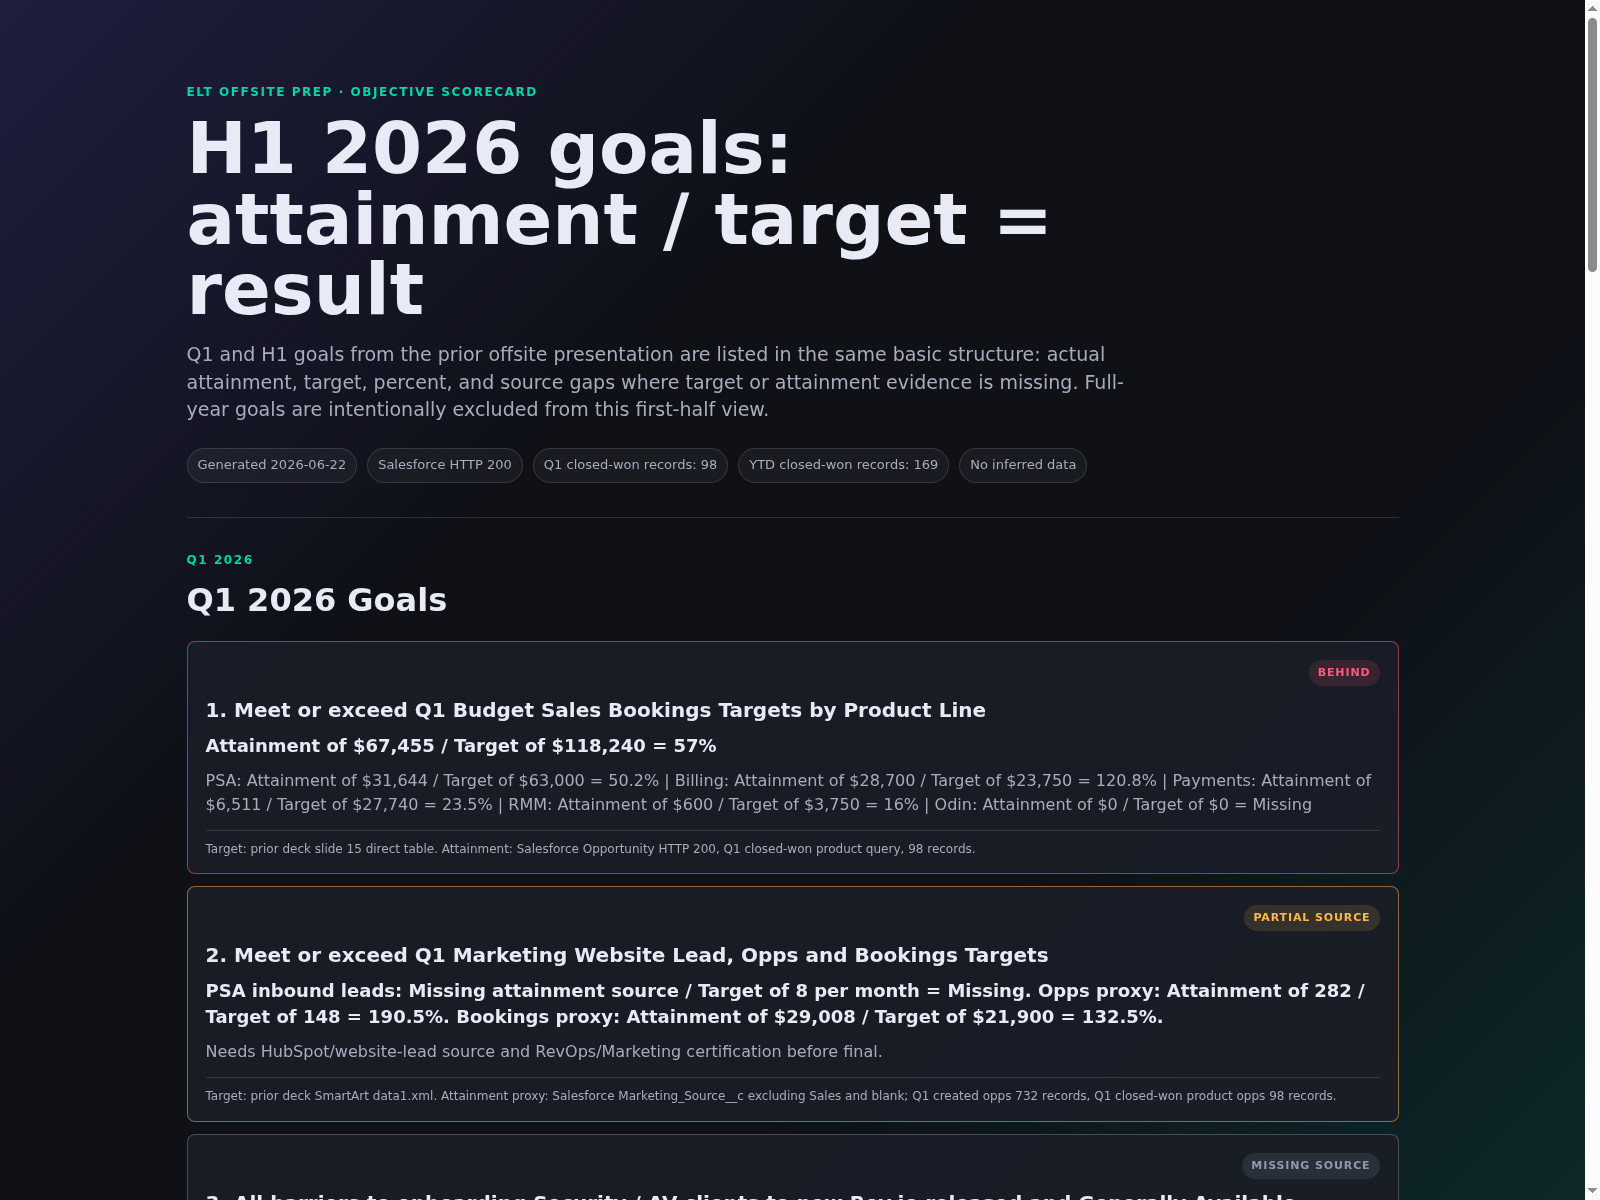
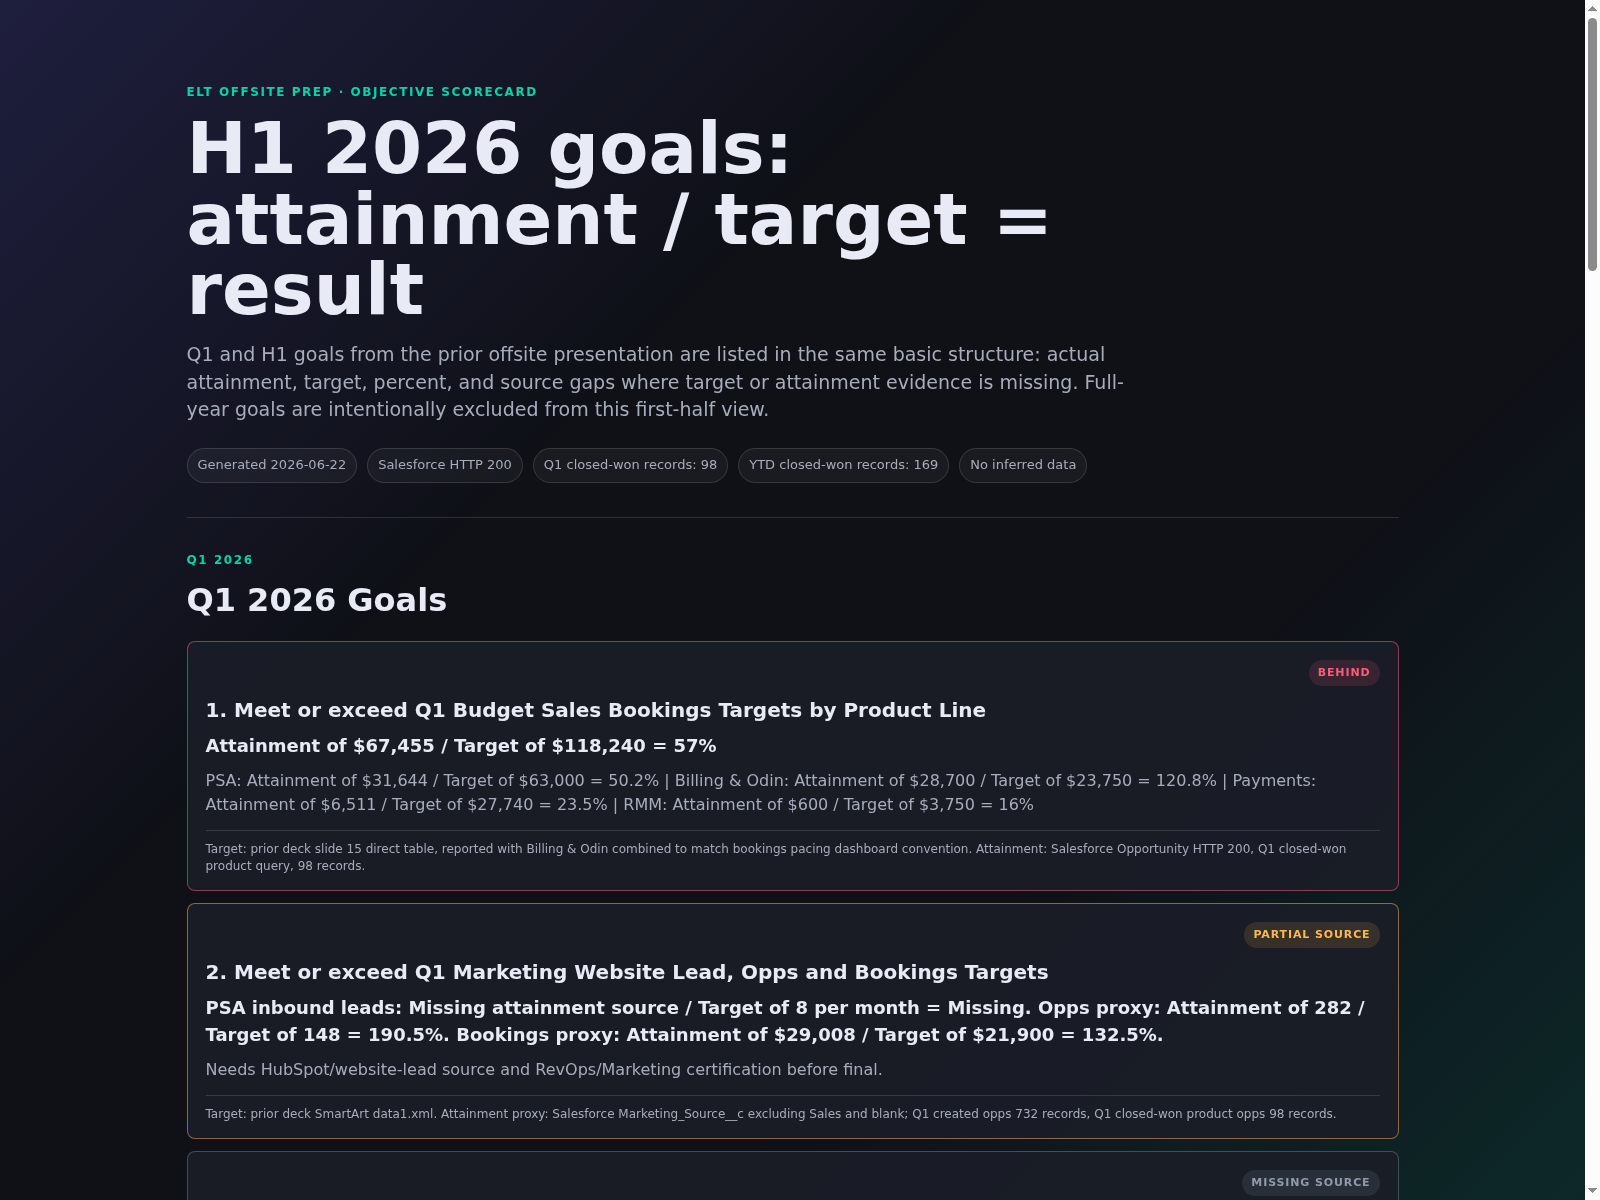
Combine Billing and Odin in ELT goals scorecard

diff --git a/elt-goals-h1/index.html b/elt-goals-h1/index.html
@@ -27,8 +27,8 @@
     <div class="top"><span class="badge bad">Behind</span></div>
     <h3>1. Meet or exceed Q1 Budget Sales Bookings Targets by Product Line</h3>
     <p class="result">Attainment of $67,455 / Target of $118,240 = 57%</p>
-    <p class="note">PSA: Attainment of $31,644 / Target of $63,000 = 50.2% | Billing: Attainment of $28,700 / Target of $23,750 = 120.8% | Payments: Attainment of $6,511 / Target of $27,740 = 23.5% | RMM: Attainment of $600 / Target of $3,750 = 16% | Odin: Attainment of $0 / Target of $0 = Missing</p>
-    <div class="source">Target: prior deck slide 15 direct table. Attainment: Salesforce Opportunity HTTP 200, Q1 closed-won product query, 98 records.</div>
+    <p class="note">PSA: Attainment of $31,644 / Target of $63,000 = 50.2% | Billing &amp; Odin: Attainment of $28,700 / Target of $23,750 = 120.8% | Payments: Attainment of $6,511 / Target of $27,740 = 23.5% | RMM: Attainment of $600 / Target of $3,750 = 16%</p>
+    <div class="source">Target: prior deck slide 15 direct table, reported with Billing &amp; Odin combined to match bookings pacing dashboard convention. Attainment: Salesforce Opportunity HTTP 200, Q1 closed-won product query, 98 records.</div>
   </article><article class="goal partial">
     <div class="top"><span class="badge partial">Partial source</span></div>
     <h3>2. Meet or exceed Q1 Marketing Website Lead, Opps and Bookings Targets</h3>
@@ -93,8 +93,8 @@
     <div class="top"><span class="badge bad">Behind</span></div>
     <h3>1. Meet or exceed H1 Budget Sales Bookings Targets by Product Line</h3>
     <p class="result">Attainment of $105,901 / Target of $309,154 = 34.3%</p>
-    <p class="note">PSA: Attainment of $55,498 / Target of $165,000 = 33.6% | Billing: Attainment of $39,310 / Target of $59,392 = 66.2% | Payments: Attainment of $10,493 / Target of $59,480 = 17.6% | RMM: Attainment of $600 / Target of $19,050 = 3.1% | Odin: Attainment of $0 / Target of $6,232 = 0%</p>
-    <div class="source">Target: prior deck slide 15 direct table. Attainment: Salesforce Opportunity HTTP 200, H1/YTD closed-won product query, 169 records through 2026-06-22.</div>
+    <p class="note">PSA: Attainment of $55,498 / Target of $165,000 = 33.6% | Billing &amp; Odin: Attainment of $39,310 / Target of $65,624 = 59.9% | Payments: Attainment of $10,493 / Target of $59,480 = 17.6% | RMM: Attainment of $600 / Target of $19,050 = 3.1%</p>
+    <div class="source">Target: prior deck slide 15 direct table, reported with Billing &amp; Odin combined to match bookings pacing dashboard convention. Attainment: Salesforce Opportunity HTTP 200, H1/YTD closed-won product query, 169 records through 2026-06-22.</div>
   </article><article class="goal partial">
     <div class="top"><span class="badge partial">Partial source</span></div>
     <h3>2. Meet or exceed H1 Marketing Website Leads, Opps and Bookings Targets</h3>

diff --git a/elt-goals.html b/elt-goals.html
@@ -27,8 +27,8 @@
     <div class="top"><span class="badge bad">Behind</span></div>
     <h3>1. Meet or exceed Q1 Budget Sales Bookings Targets by Product Line</h3>
     <p class="result">Attainment of $67,455 / Target of $118,240 = 57%</p>
-    <p class="note">PSA: Attainment of $31,644 / Target of $63,000 = 50.2% | Billing: Attainment of $28,700 / Target of $23,750 = 120.8% | Payments: Attainment of $6,511 / Target of $27,740 = 23.5% | RMM: Attainment of $600 / Target of $3,750 = 16% | Odin: Attainment of $0 / Target of $0 = Missing</p>
-    <div class="source">Target: prior deck slide 15 direct table. Attainment: Salesforce Opportunity HTTP 200, Q1 closed-won product query, 98 records.</div>
+    <p class="note">PSA: Attainment of $31,644 / Target of $63,000 = 50.2% | Billing &amp; Odin: Attainment of $28,700 / Target of $23,750 = 120.8% | Payments: Attainment of $6,511 / Target of $27,740 = 23.5% | RMM: Attainment of $600 / Target of $3,750 = 16%</p>
+    <div class="source">Target: prior deck slide 15 direct table, reported with Billing &amp; Odin combined to match bookings pacing dashboard convention. Attainment: Salesforce Opportunity HTTP 200, Q1 closed-won product query, 98 records.</div>
   </article><article class="goal partial">
     <div class="top"><span class="badge partial">Partial source</span></div>
     <h3>2. Meet or exceed Q1 Marketing Website Lead, Opps and Bookings Targets</h3>
@@ -93,8 +93,8 @@
     <div class="top"><span class="badge bad">Behind</span></div>
     <h3>1. Meet or exceed H1 Budget Sales Bookings Targets by Product Line</h3>
     <p class="result">Attainment of $105,901 / Target of $309,154 = 34.3%</p>
-    <p class="note">PSA: Attainment of $55,498 / Target of $165,000 = 33.6% | Billing: Attainment of $39,310 / Target of $59,392 = 66.2% | Payments: Attainment of $10,493 / Target of $59,480 = 17.6% | RMM: Attainment of $600 / Target of $19,050 = 3.1% | Odin: Attainment of $0 / Target of $6,232 = 0%</p>
-    <div class="source">Target: prior deck slide 15 direct table. Attainment: Salesforce Opportunity HTTP 200, H1/YTD closed-won product query, 169 records through 2026-06-22.</div>
+    <p class="note">PSA: Attainment of $55,498 / Target of $165,000 = 33.6% | Billing &amp; Odin: Attainment of $39,310 / Target of $65,624 = 59.9% | Payments: Attainment of $10,493 / Target of $59,480 = 17.6% | RMM: Attainment of $600 / Target of $19,050 = 3.1%</p>
+    <div class="source">Target: prior deck slide 15 direct table, reported with Billing &amp; Odin combined to match bookings pacing dashboard convention. Attainment: Salesforce Opportunity HTTP 200, H1/YTD closed-won product query, 169 records through 2026-06-22.</div>
   </article><article class="goal partial">
     <div class="top"><span class="badge partial">Partial source</span></div>
     <h3>2. Meet or exceed H1 Marketing Website Leads, Opps and Bookings Targets</h3>

diff --git a/elt-goals/index.html b/elt-goals/index.html
@@ -27,8 +27,8 @@
     <div class="top"><span class="badge bad">Behind</span></div>
     <h3>1. Meet or exceed Q1 Budget Sales Bookings Targets by Product Line</h3>
     <p class="result">Attainment of $67,455 / Target of $118,240 = 57%</p>
-    <p class="note">PSA: Attainment of $31,644 / Target of $63,000 = 50.2% | Billing: Attainment of $28,700 / Target of $23,750 = 120.8% | Payments: Attainment of $6,511 / Target of $27,740 = 23.5% | RMM: Attainment of $600 / Target of $3,750 = 16% | Odin: Attainment of $0 / Target of $0 = Missing</p>
-    <div class="source">Target: prior deck slide 15 direct table. Attainment: Salesforce Opportunity HTTP 200, Q1 closed-won product query, 98 records.</div>
+    <p class="note">PSA: Attainment of $31,644 / Target of $63,000 = 50.2% | Billing &amp; Odin: Attainment of $28,700 / Target of $23,750 = 120.8% | Payments: Attainment of $6,511 / Target of $27,740 = 23.5% | RMM: Attainment of $600 / Target of $3,750 = 16%</p>
+    <div class="source">Target: prior deck slide 15 direct table, reported with Billing &amp; Odin combined to match bookings pacing dashboard convention. Attainment: Salesforce Opportunity HTTP 200, Q1 closed-won product query, 98 records.</div>
   </article><article class="goal partial">
     <div class="top"><span class="badge partial">Partial source</span></div>
     <h3>2. Meet or exceed Q1 Marketing Website Lead, Opps and Bookings Targets</h3>
@@ -93,8 +93,8 @@
     <div class="top"><span class="badge bad">Behind</span></div>
     <h3>1. Meet or exceed H1 Budget Sales Bookings Targets by Product Line</h3>
     <p class="result">Attainment of $105,901 / Target of $309,154 = 34.3%</p>
-    <p class="note">PSA: Attainment of $55,498 / Target of $165,000 = 33.6% | Billing: Attainment of $39,310 / Target of $59,392 = 66.2% | Payments: Attainment of $10,493 / Target of $59,480 = 17.6% | RMM: Attainment of $600 / Target of $19,050 = 3.1% | Odin: Attainment of $0 / Target of $6,232 = 0%</p>
-    <div class="source">Target: prior deck slide 15 direct table. Attainment: Salesforce Opportunity HTTP 200, H1/YTD closed-won product query, 169 records through 2026-06-22.</div>
+    <p class="note">PSA: Attainment of $55,498 / Target of $165,000 = 33.6% | Billing &amp; Odin: Attainment of $39,310 / Target of $65,624 = 59.9% | Payments: Attainment of $10,493 / Target of $59,480 = 17.6% | RMM: Attainment of $600 / Target of $19,050 = 3.1%</p>
+    <div class="source">Target: prior deck slide 15 direct table, reported with Billing &amp; Odin combined to match bookings pacing dashboard convention. Attainment: Salesforce Opportunity HTTP 200, H1/YTD closed-won product query, 169 records through 2026-06-22.</div>
   </article><article class="goal partial">
     <div class="top"><span class="badge partial">Partial source</span></div>
     <h3>2. Meet or exceed H1 Marketing Website Leads, Opps and Bookings Targets</h3>

diff --git a/elt-offsite-2026-goals-attainment.html b/elt-offsite-2026-goals-attainment.html
@@ -27,8 +27,8 @@
     <div class="top"><span class="badge bad">Behind</span></div>
     <h3>1. Meet or exceed Q1 Budget Sales Bookings Targets by Product Line</h3>
     <p class="result">Attainment of $67,455 / Target of $118,240 = 57%</p>
-    <p class="note">PSA: Attainment of $31,644 / Target of $63,000 = 50.2% | Billing: Attainment of $28,700 / Target of $23,750 = 120.8% | Payments: Attainment of $6,511 / Target of $27,740 = 23.5% | RMM: Attainment of $600 / Target of $3,750 = 16% | Odin: Attainment of $0 / Target of $0 = Missing</p>
-    <div class="source">Target: prior deck slide 15 direct table. Attainment: Salesforce Opportunity HTTP 200, Q1 closed-won product query, 98 records.</div>
+    <p class="note">PSA: Attainment of $31,644 / Target of $63,000 = 50.2% | Billing &amp; Odin: Attainment of $28,700 / Target of $23,750 = 120.8% | Payments: Attainment of $6,511 / Target of $27,740 = 23.5% | RMM: Attainment of $600 / Target of $3,750 = 16%</p>
+    <div class="source">Target: prior deck slide 15 direct table, reported with Billing &amp; Odin combined to match bookings pacing dashboard convention. Attainment: Salesforce Opportunity HTTP 200, Q1 closed-won product query, 98 records.</div>
   </article><article class="goal partial">
     <div class="top"><span class="badge partial">Partial source</span></div>
     <h3>2. Meet or exceed Q1 Marketing Website Lead, Opps and Bookings Targets</h3>
@@ -93,8 +93,8 @@
     <div class="top"><span class="badge bad">Behind</span></div>
     <h3>1. Meet or exceed H1 Budget Sales Bookings Targets by Product Line</h3>
     <p class="result">Attainment of $105,901 / Target of $309,154 = 34.3%</p>
-    <p class="note">PSA: Attainment of $55,498 / Target of $165,000 = 33.6% | Billing: Attainment of $39,310 / Target of $59,392 = 66.2% | Payments: Attainment of $10,493 / Target of $59,480 = 17.6% | RMM: Attainment of $600 / Target of $19,050 = 3.1% | Odin: Attainment of $0 / Target of $6,232 = 0%</p>
-    <div class="source">Target: prior deck slide 15 direct table. Attainment: Salesforce Opportunity HTTP 200, H1/YTD closed-won product query, 169 records through 2026-06-22.</div>
+    <p class="note">PSA: Attainment of $55,498 / Target of $165,000 = 33.6% | Billing &amp; Odin: Attainment of $39,310 / Target of $65,624 = 59.9% | Payments: Attainment of $10,493 / Target of $59,480 = 17.6% | RMM: Attainment of $600 / Target of $19,050 = 3.1%</p>
+    <div class="source">Target: prior deck slide 15 direct table, reported with Billing &amp; Odin combined to match bookings pacing dashboard convention. Attainment: Salesforce Opportunity HTTP 200, H1/YTD closed-won product query, 169 records through 2026-06-22.</div>
   </article><article class="goal partial">
     <div class="top"><span class="badge partial">Partial source</span></div>
     <h3>2. Meet or exceed H1 Marketing Website Leads, Opps and Bookings Targets</h3>
